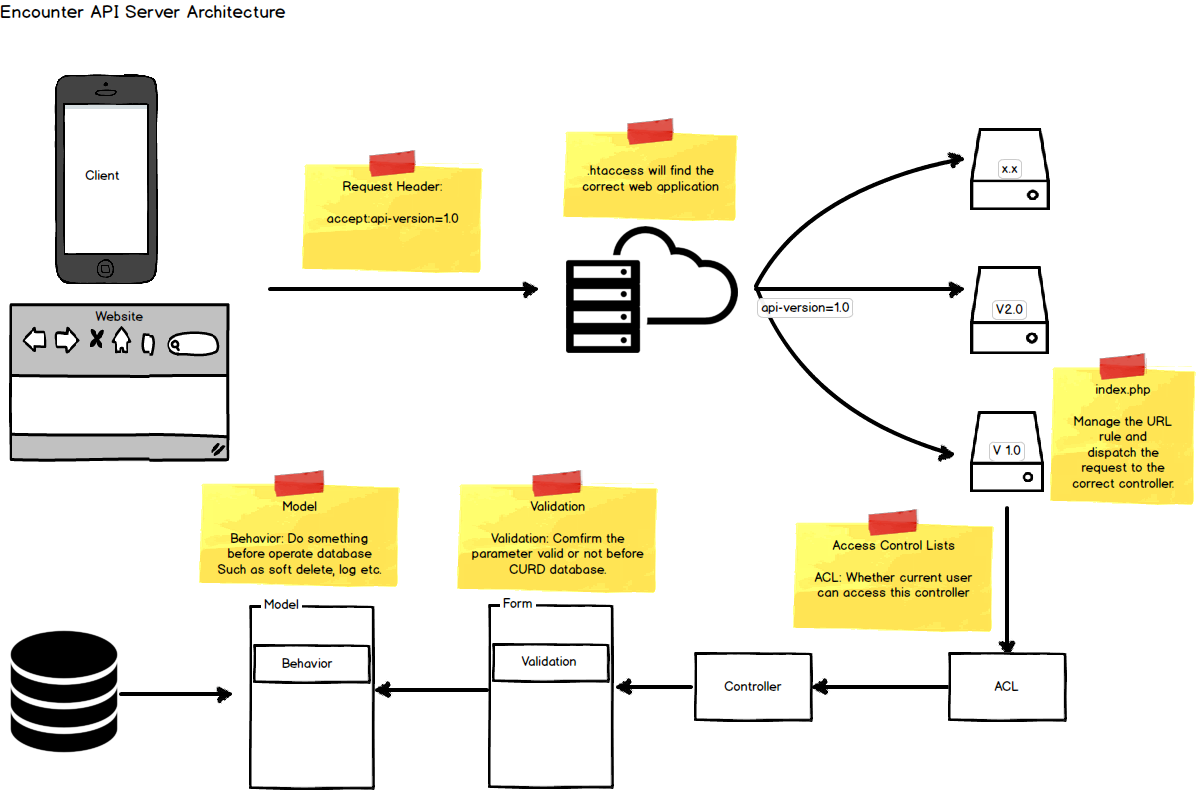
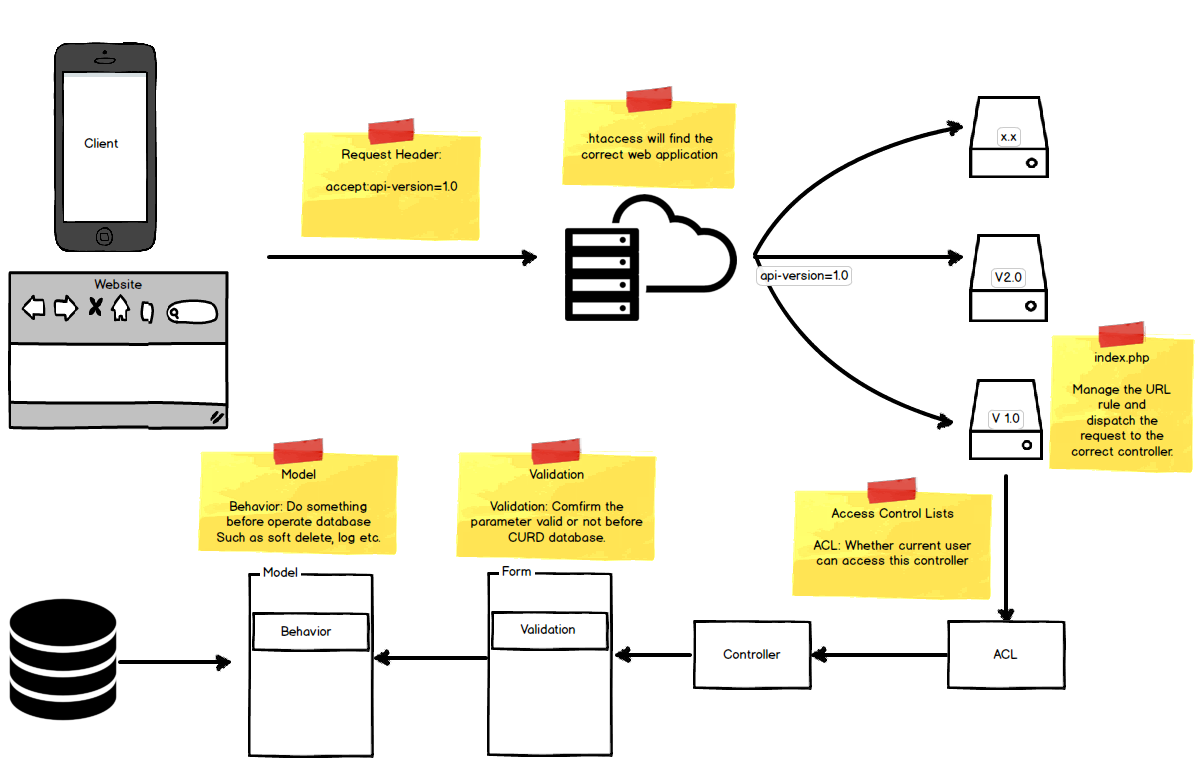
修改项目描述

diff --git a/README.md b/README.md
@@ -4,10 +4,10 @@ Best practice of Phalcon RESFTful Server
 
 #### Requirement
 
-    - Phalcon 2.0.8
-    - Memcached 
+> Phalcon 2.0.8
+> Memcached 
 
-#### Framework
+#### Architecture
 ![image](https://github.com/edvardHua/Phalcon-RESTful-Server/raw/master/img/framework.png)
 
 #### Postman Test Script (not finish)
